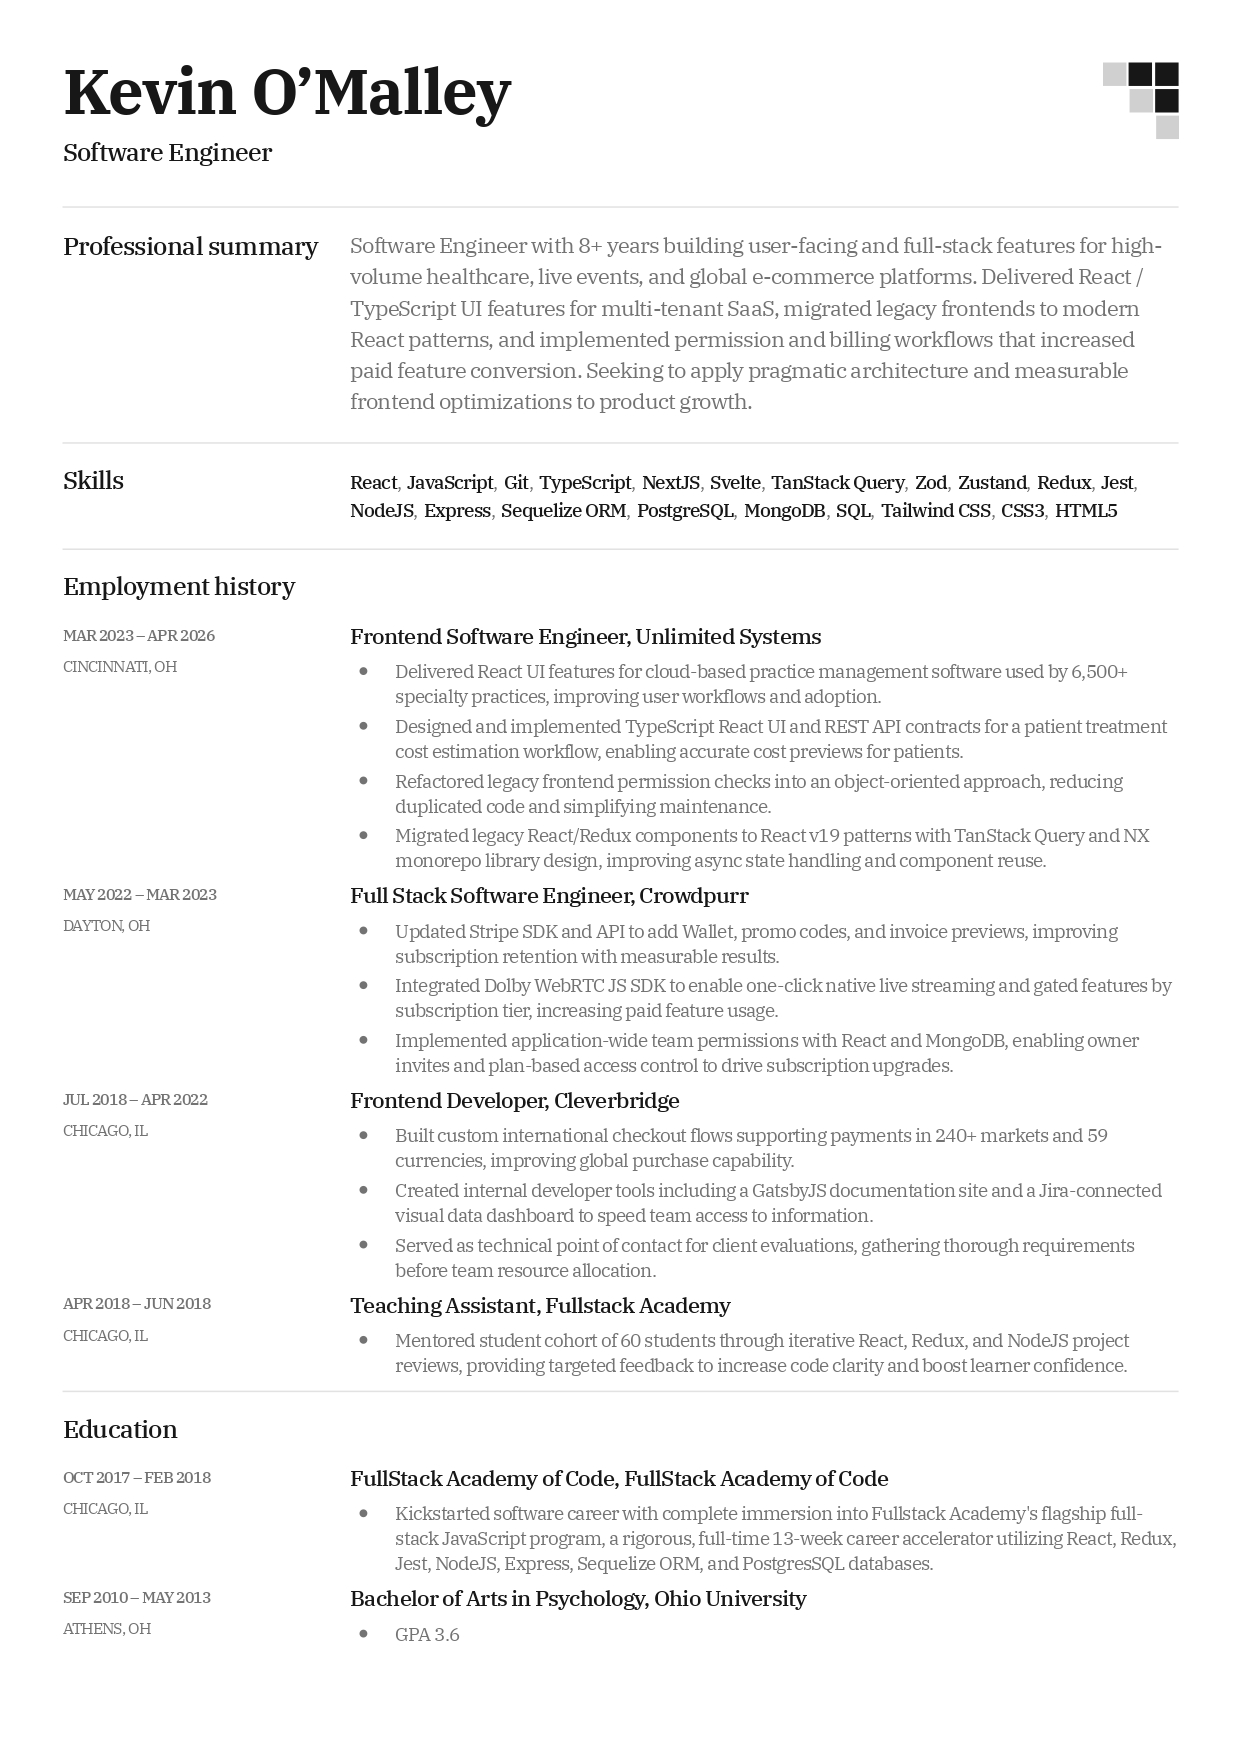
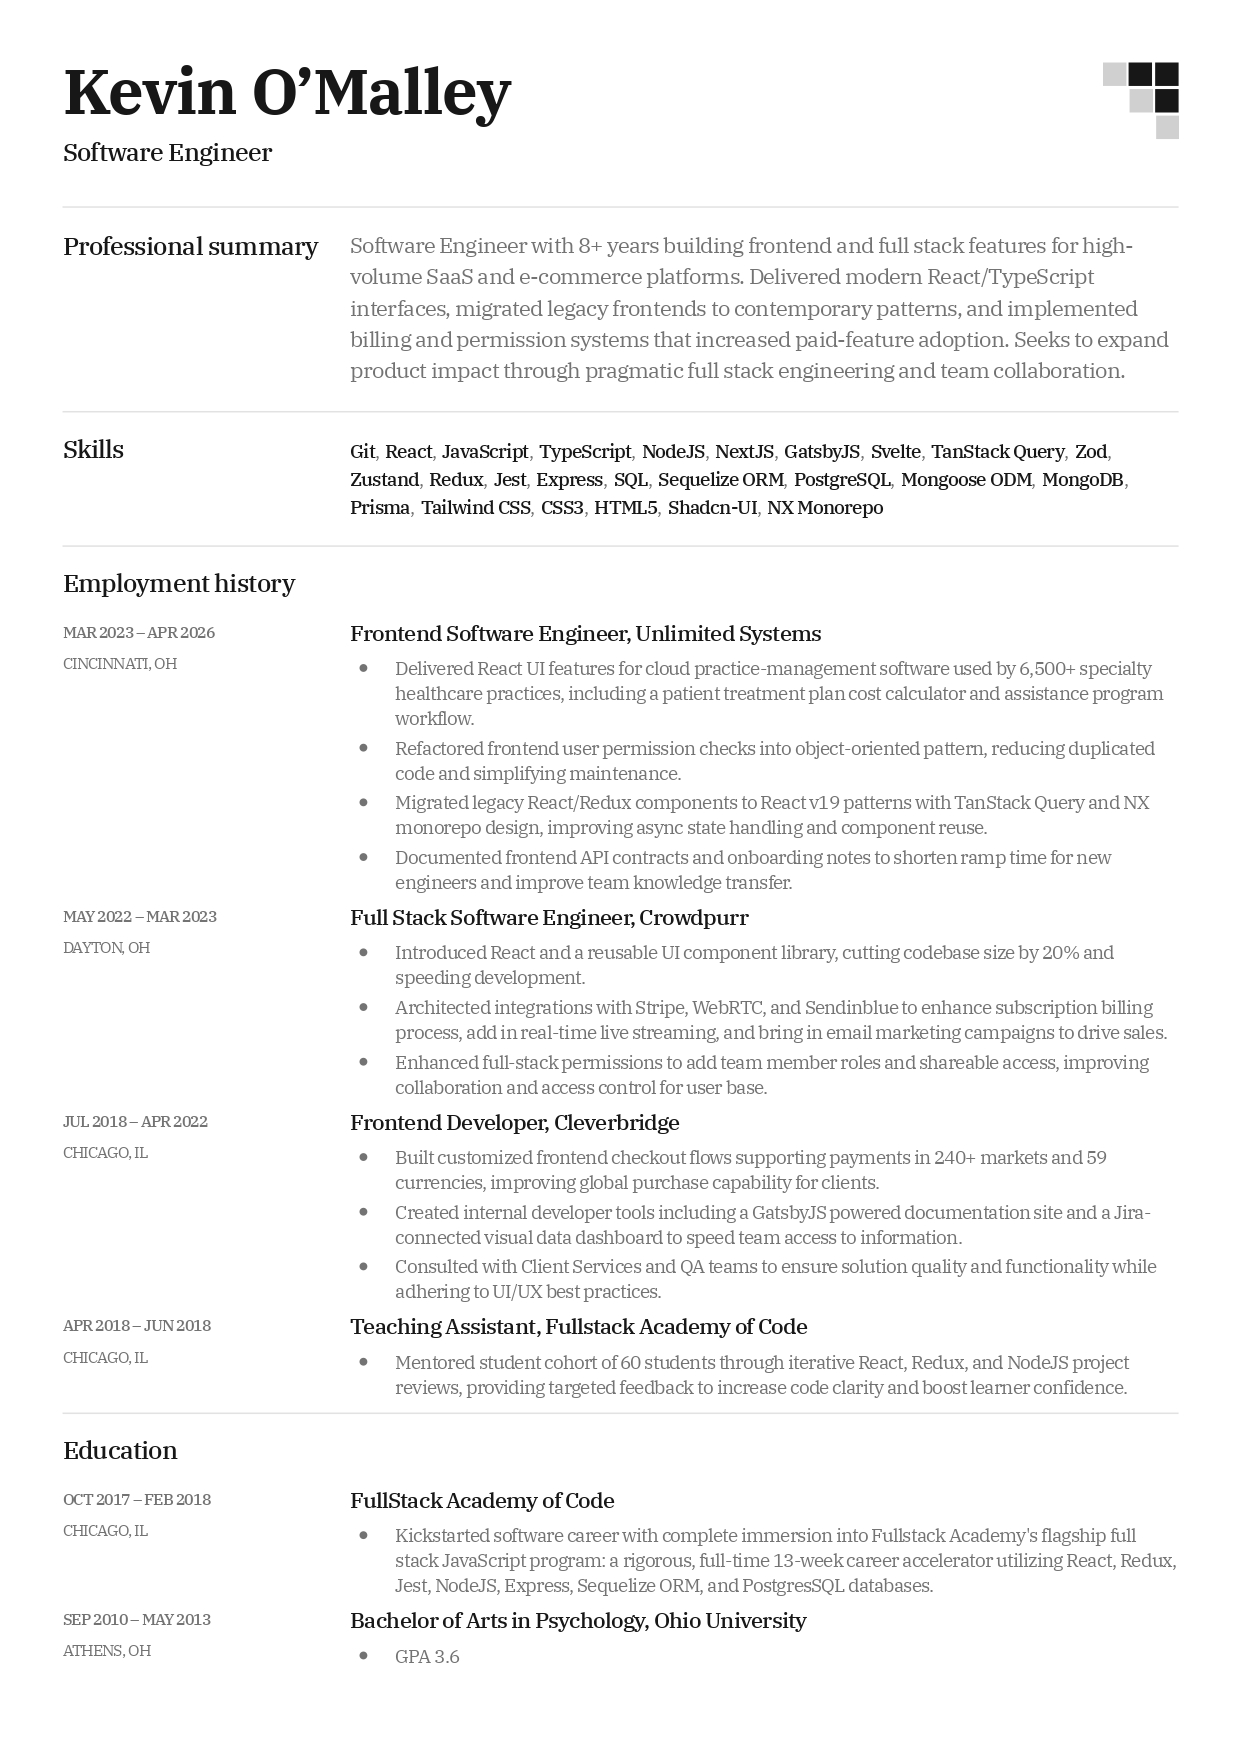
feat: add tech stack to project card

diff --git a/src/lib/components/Icons.svelte b/src/lib/components/Icons.svelte
@@ -7,14 +7,14 @@
 
 <div class="icons">
 	<div class="icon-container">
-		<div class="icon-label"><span>GitHub</span></div>
+		<div class="icon-label gradient-color"><span>GitHub</span></div>
 		<div class="icon icon-round">
 			<a href={PUBLIC_GITHUB_LINK} target="_blank">
 				<img src={githubIcon} alt="Github" class="icon-img" />
 			</a>
 		</div>
 	</div>
-	<div class="icon-container">
+	<div class="icon-container gradient-color">
 		<div class="icon-label"><span>LinkedIn</span></div>
 		<div class="icon">
 			<a href={PUBLIC_LINKEDIN_LINK} target="_blank">
@@ -53,12 +53,6 @@
 		padding-bottom: 1rem;
 		font-size: 1.5rem;
 		letter-spacing: 1.2px;
-		background: linear-gradient(to right, #4acfee, #53f8c9, #6070fd, #5bbdff, #4acfee);
-		background-size: 200%;
-		background-clip: text;
-		-webkit-background-clip: text;
-		-webkit-text-fill-color: transparent;
-		animation: animate-gradient 4s linear infinite;
 	}
 
 	.icon:hover {
@@ -94,12 +88,6 @@
 
 		.icon-label {
 			padding-bottom: 1.5rem;
-		}
-	}
-
-	@keyframes animate-gradient {
-		to {
-			background-position: 200%;
 		}
 	}
 </style>

diff --git a/src/lib/components/ExperienceTable.svelte b/src/lib/components/ExperienceTable.svelte
@@ -33,7 +33,9 @@
 			{#each workExperience as job, index}
 				<li class="work-item">
 					<article>
-						<h3 class="semi-bold mb-xs {openedWorkDescriptionIndex === index ? 'opened' : ''}">
+						<h3
+							class="semi-bold mb-xs {openedWorkDescriptionIndex === index ? 'gradient-color' : ''}"
+						>
 							{job.jobTitle}
 						</h3>
 						<div class="flex-space-between">
@@ -111,15 +113,6 @@
 	}
 	.work-item p {
 		margin-bottom: 0;
-	}
-
-	h3.opened {
-		background: linear-gradient(to right, #4acfee, #53f8c9, #6070fd, #5bbdff, #4acfee);
-		background-size: 200%;
-		background-clip: text;
-		-webkit-background-clip: text;
-		-webkit-text-fill-color: transparent;
-		animation: animate-gradient 4s linear infinite;
 	}
 
 	.company-description:hover p {
@@ -274,12 +267,6 @@
 			transform: scale(1) rotate(0deg);
 			filter: invert(100%) sepia(100%) saturate(0%) hue-rotate(140deg) brightness(104%)
 				contrast(105%);
-		}
-	}
-
-	@keyframes animate-gradient {
-		to {
-			background-position: 200%;
 		}
 	}
 </style>

diff --git a/src/lib/components/Sections/AboutMeSection.svelte b/src/lib/components/Sections/AboutMeSection.svelte
@@ -155,28 +155,6 @@
 		justify-content: space-between;
 	}
 
-	.wave {
-		background: var(--dark-border);
-		border-radius: 1000% 1000% 0 0;
-		position: absolute;
-		width: 200%;
-		height: 10em;
-		animation: wave 10s -3s linear infinite;
-		transform: translate3d(0, 0, 0);
-		opacity: 0.2;
-		bottom: -2rem;
-		left: 0;
-		z-index: -1;
-	}
-
-	.wave:nth-of-type(2) {
-		bottom: 1rem;
-	}
-
-	.wave:nth-of-type(3) {
-		bottom: 0.4rem;
-	}
-
 	@media (min-width: 768px) {
 		.image-container {
 			width: 200px;
@@ -185,6 +163,27 @@
 	}
 
 	@media (min-width: 1024px) {
+		.wave {
+			background: var(--dark-border);
+			border-radius: 1000% 1000% 0 0;
+			position: absolute;
+			width: 200%;
+			height: 10em;
+			animation: wave 10s -3s linear infinite;
+			transform: translate3d(0, 0, 0);
+			opacity: 0.2;
+			bottom: -2rem;
+			left: 0;
+			z-index: -1;
+		}
+
+		.wave:nth-of-type(2) {
+			bottom: 1rem;
+		}
+
+		.wave:nth-of-type(3) {
+			bottom: 0.4rem;
+		}
 		p {
 			line-height: 1.9;
 		}

diff --git a/src/lib/components/Sections/MyProjectsSection.svelte b/src/lib/components/Sections/MyProjectsSection.svelte
@@ -38,8 +38,15 @@
 			<img src={project.projectImageUrl} alt={project.name} />
 			<div class="project-info">
 				<div class="title-and-company">
-					<h3 class="semi-bold">{project.name}</h3>
+					<h3 class:gradient-color={hoveredProject} class="semi-bold">{project.name}</h3>
 					<p class="company">{project.company}</p>
+					<div class="meta-data">
+						<ul class="skill-container">
+							{#each project.stack as skill}
+								<li class="skill">{skill}</li>
+							{/each}
+						</ul>
+					</div>
 				</div>
 				<button class="btn-to-article">→</button>
 			</div>
@@ -136,6 +143,23 @@
 	.company {
 		font-size: 1.8rem;
 		margin-bottom: 0;
+	}
+
+	.meta-data * {
+		font-size: 1rem;
+	}
+
+	.skill-container {
+		margin-top: 10px;
+		display: flex;
+		gap: 0.5rem;
+	}
+
+	.skill {
+		padding: 2px 4px;
+		color: var(--dark-text-secondary);
+		background-color: var(--dark-border);
+		border-radius: 5px;
 	}
 
 	@media (min-width: 768px) {

diff --git a/src/lib/components/Sections/HeroSection.svelte b/src/lib/components/Sections/HeroSection.svelte
@@ -8,7 +8,7 @@
 <IntersectionObserver once {element} bind:intersecting>
 	<section class="hero">
 		<div bind:this={element} class="default-margin pt-m pb-m" class:fade-in={intersecting}>
-			<h1 class="hero-label">Kevin O'Malley</h1>
+			<h1 class="hero-label gradient-color">Kevin O'Malley</h1>
 		</div>
 	</section>
 </IntersectionObserver>
@@ -28,12 +28,6 @@
 		color: var(--dark-text-primary);
 		text-transform: uppercase;
 		letter-spacing: 4px;
-		background: linear-gradient(to right, #4acfee, #53f8c9, #6070fd, #5bbdff, #4acfee);
-		background-size: 200%;
-		background-clip: text;
-		-webkit-background-clip: text;
-		-webkit-text-fill-color: transparent;
-		animation: animate-gradient 4s linear infinite;
 	}
 
 	/* Larger screens */
@@ -64,12 +58,6 @@
 		100% {
 			opacity: 100%;
 			transform: translateX(0);
-		}
-	}
-
-	@keyframes animate-gradient {
-		to {
-			background-position: 200%;
 		}
 	}
 </style>

diff --git a/src/app.css b/src/app.css
@@ -162,6 +162,21 @@ p {
 
 /* UTILITY CLASSES */
 
+.gradient-color {
+	background: linear-gradient(to right, #4acfee, #53f8c9, #6070fd, #5bbdff, #4acfee);
+	background-size: 200%;
+	background-clip: text;
+	-webkit-background-clip: text;
+	-webkit-text-fill-color: transparent;
+	animation: animate-gradient 4s linear infinite;
+}
+
+@keyframes animate-gradient {
+	to {
+		background-position: 200%;
+	}
+}
+
 .bg-white {
 	background: var(--dark-bg);
 }
@@ -208,6 +223,10 @@ p {
 
 .semi-bold {
 	font-weight: 500;
+}
+
+.italic {
+	font-style: italic;
 }
 
 .underscore {

diff --git a/src/lib/components/Header.svelte b/src/lib/components/Header.svelte
@@ -70,7 +70,7 @@
 		justify-content: space-between;
 		align-items: center;
 		flex-wrap: wrap;
-		gap: 1rem;
+		gap: 0.2rem;
 	}
 
 	.navbar-links {
